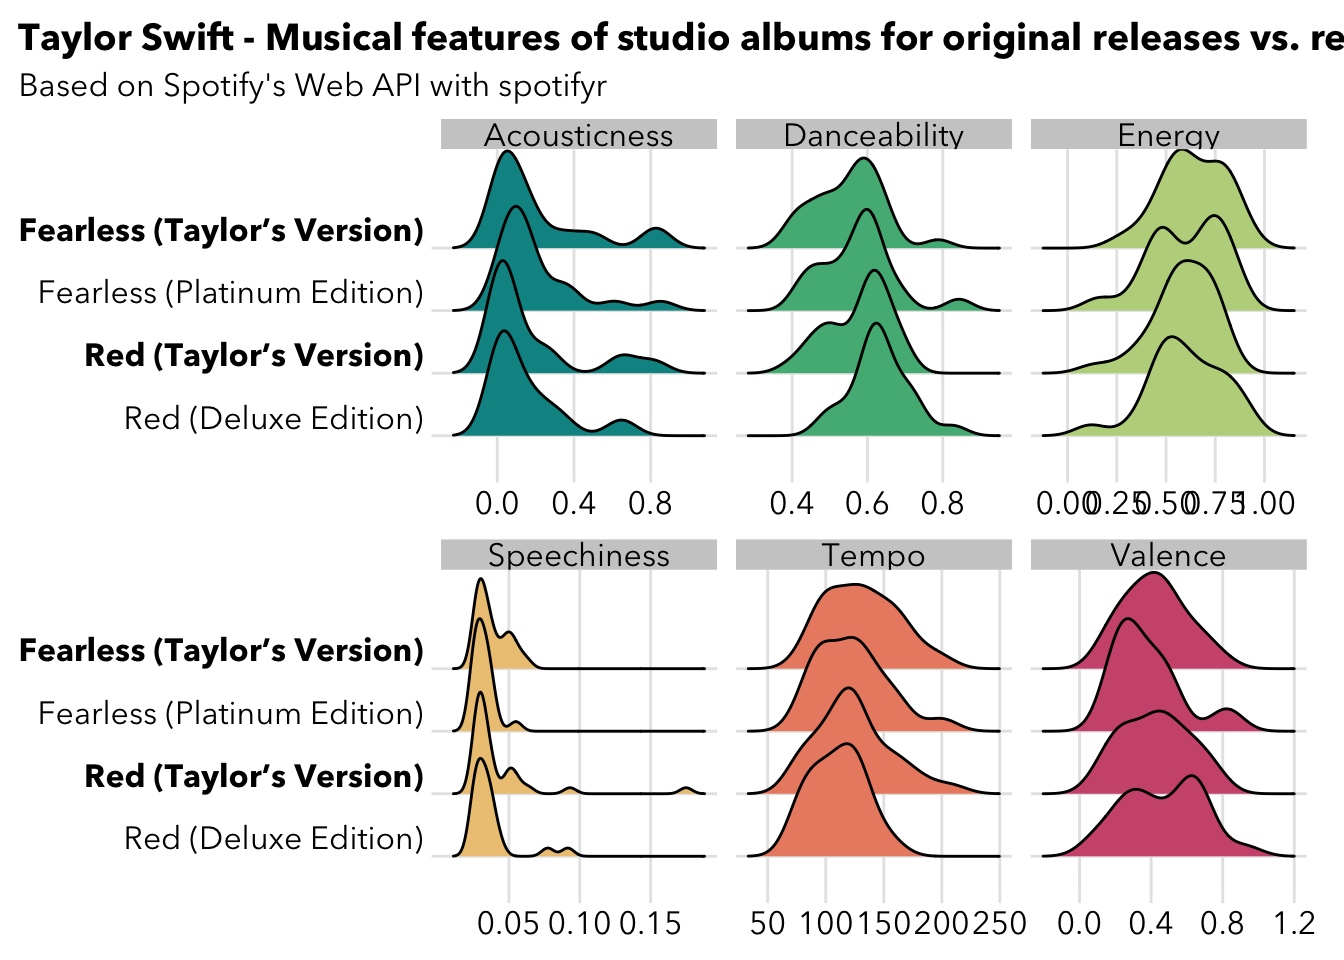
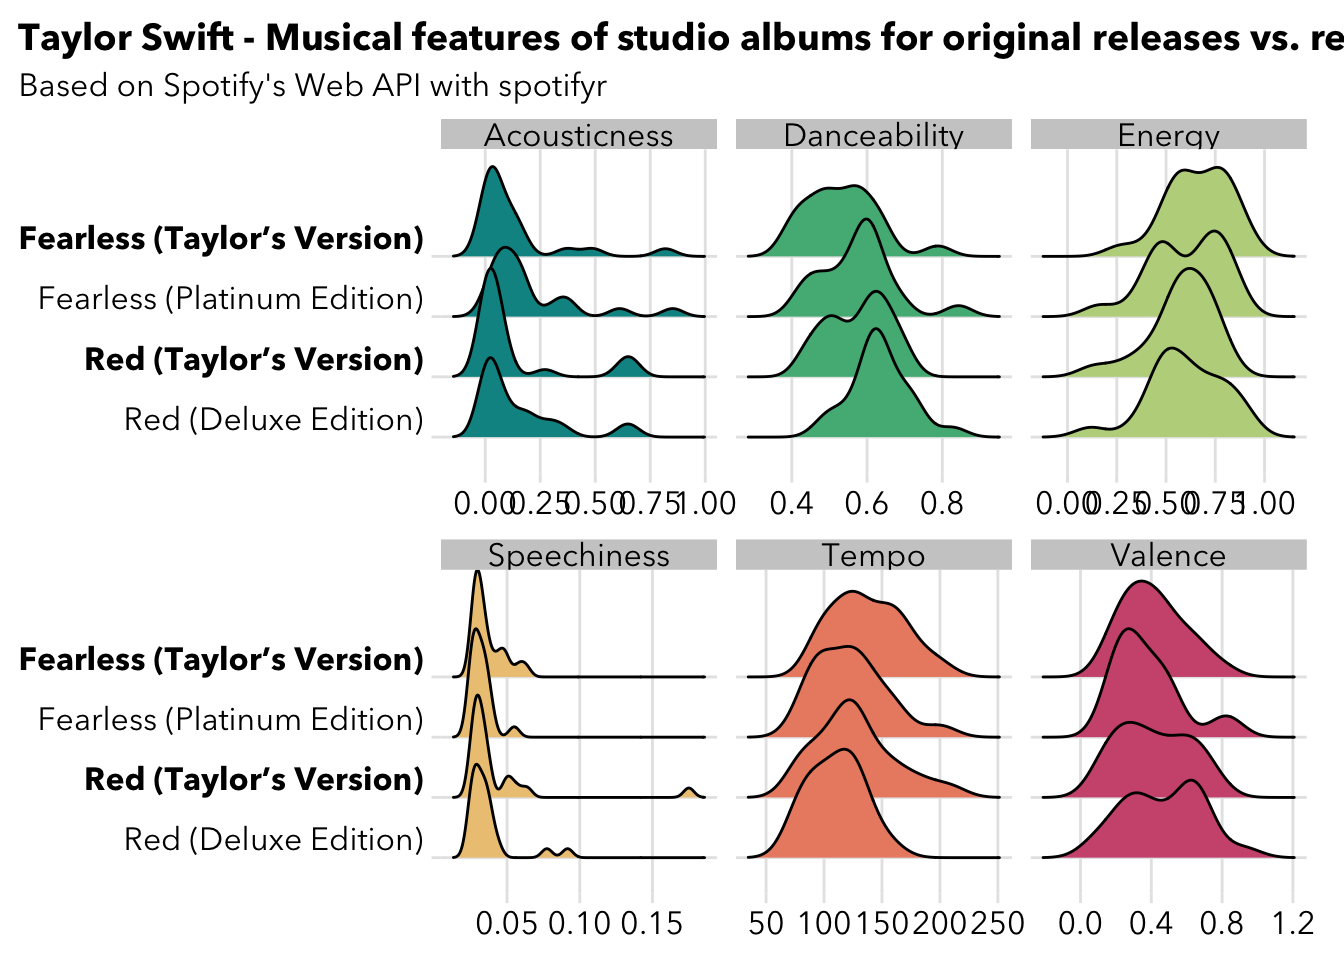
additional analysis

diff --git a/_site/posts/spotify api/index.html b/_site/posts/spotify api/index.html
@@ -251,35 +251,41 @@ code span.wa { color: #60a0b0; font-weight: bold; font-style: italic; } /* Warni
 <span id="cb1-36"><a href="#cb1-36" aria-hidden="true" tabindex="-1"></a><span class="co"># Filter for Taylor's Version + Originals</span></span>
 <span id="cb1-37"><a href="#cb1-37" aria-hidden="true" tabindex="-1"></a>taylors_version <span class="ot">&lt;-</span> tswift_spotify <span class="sc">%&gt;%</span></span>
 <span id="cb1-38"><a href="#cb1-38" aria-hidden="true" tabindex="-1"></a>  <span class="fu">filter</span>(<span class="fu">grepl</span>(<span class="st">"Taylor's Version"</span>, album_name) <span class="sc">|</span> <span class="fu">grepl</span>(<span class="st">"Red"</span>, album_name) <span class="sc">|</span> <span class="fu">grepl</span>(<span class="st">"Fearless"</span>, album_name)) <span class="sc">%&gt;%</span></span>
-<span id="cb1-39"><a href="#cb1-39" aria-hidden="true" tabindex="-1"></a>  <span class="fu">filter</span>(<span class="sc">!</span><span class="fu">grepl</span>(<span class="st">"International"</span>, album_name)) </span>
-<span id="cb1-40"><a href="#cb1-40" aria-hidden="true" tabindex="-1"></a></span>
+<span id="cb1-39"><a href="#cb1-39" aria-hidden="true" tabindex="-1"></a>  <span class="fu">filter</span>(<span class="sc">!</span><span class="fu">grepl</span>(<span class="st">"International"</span>, album_name)) <span class="sc">%&gt;%</span></span>
+<span id="cb1-40"><a href="#cb1-40" aria-hidden="true" tabindex="-1"></a>  <span class="fu">filter</span>(<span class="sc">!</span><span class="fu">grepl</span>(<span class="st">"From The Vault"</span>, track_name))</span>
 <span id="cb1-41"><a href="#cb1-41" aria-hidden="true" tabindex="-1"></a></span>
-<span id="cb1-42"><a href="#cb1-42" aria-hidden="true" tabindex="-1"></a><span class="co"># Added some factoring and text decoration</span></span>
-<span id="cb1-43"><a href="#cb1-43" aria-hidden="true" tabindex="-1"></a>taylors_version <span class="sc">|&gt;</span></span>
-<span id="cb1-44"><a href="#cb1-44" aria-hidden="true" tabindex="-1"></a>  <span class="fu">mutate</span>(<span class="at">album_name =</span> <span class="fu">ifelse</span>(<span class="fu">grepl</span>(<span class="st">"Taylor's Version"</span>, album_name), <span class="fu">paste0</span>(<span class="st">"&lt;b&gt;"</span>, album_name, <span class="st">"&lt;/b&gt;"</span>), album_name),</span>
-<span id="cb1-45"><a href="#cb1-45" aria-hidden="true" tabindex="-1"></a>         <span class="at">album_name =</span> <span class="fu">factor</span>(album_name, <span class="fu">c</span>(<span class="st">"Red (Deluxe Edition)"</span>, <span class="st">"&lt;b&gt;Red (Taylor's Version)&lt;/b&gt;"</span>, <span class="st">"Fearless (Platinum Edition)"</span>, <span class="st">"&lt;b&gt;Fearless (Taylor's Version)&lt;/b&gt;"</span>))</span>
-<span id="cb1-46"><a href="#cb1-46" aria-hidden="true" tabindex="-1"></a>  ) <span class="sc">%&gt;%</span></span>
-<span id="cb1-47"><a href="#cb1-47" aria-hidden="true" tabindex="-1"></a>  tidyr<span class="sc">::</span><span class="fu">pivot_longer</span>(<span class="at">cols =</span> <span class="fu">c</span>(<span class="st">"valence"</span>,<span class="st">"tempo"</span>,<span class="st">"danceability"</span>,<span class="st">"energy"</span>, <span class="st">"speechiness"</span>, <span class="st">"acousticness"</span>), <span class="at">names_to =</span> <span class="st">"metric"</span>) <span class="sc">|&gt;</span></span>
-<span id="cb1-48"><a href="#cb1-48" aria-hidden="true" tabindex="-1"></a>  <span class="fu">ggplot</span>(<span class="fu">aes</span>(<span class="at">x =</span> value, <span class="at">y =</span> album_name, <span class="at">fill=</span><span class="fu">factor</span>(metric))) <span class="sc">+</span></span>
-<span id="cb1-49"><a href="#cb1-49" aria-hidden="true" tabindex="-1"></a>    <span class="fu">geom_density_ridges</span>(<span class="at">show.legend =</span> <span class="cn">FALSE</span>) <span class="sc">+</span></span>
-<span id="cb1-50"><a href="#cb1-50" aria-hidden="true" tabindex="-1"></a>    <span class="fu">theme_ridges</span>() <span class="sc">+</span></span>
-<span id="cb1-51"><a href="#cb1-51" aria-hidden="true" tabindex="-1"></a>    <span class="fu">labs</span>(<span class="at">title =</span> <span class="st">"Taylor Swift - Musical features of studio albums for original releases vs. re-recordings"</span>,</span>
-<span id="cb1-52"><a href="#cb1-52" aria-hidden="true" tabindex="-1"></a>         <span class="at">subtitle =</span> <span class="st">"Based on Spotify's Web API with spotifyr"</span>,</span>
-<span id="cb1-53"><a href="#cb1-53" aria-hidden="true" tabindex="-1"></a>         <span class="at">y=</span><span class="cn">NULL</span>,</span>
-<span id="cb1-54"><a href="#cb1-54" aria-hidden="true" tabindex="-1"></a>         <span class="at">x=</span><span class="cn">NULL</span>)<span class="sc">+</span></span>
-<span id="cb1-55"><a href="#cb1-55" aria-hidden="true" tabindex="-1"></a>    <span class="fu">facet_wrap</span>(<span class="sc">~</span>metric, <span class="at">scales =</span> <span class="st">"free_x"</span>, <span class="at">nrow =</span> <span class="dv">2</span>,</span>
-<span id="cb1-56"><a href="#cb1-56" aria-hidden="true" tabindex="-1"></a>               <span class="at">labeller =</span> <span class="fu">as_labeller</span>(</span>
-<span id="cb1-57"><a href="#cb1-57" aria-hidden="true" tabindex="-1"></a>                 <span class="fu">c</span>(<span class="st">`</span><span class="at">danceability</span><span class="st">`</span><span class="ot">=</span><span class="st">"Danceability"</span>, </span>
-<span id="cb1-58"><a href="#cb1-58" aria-hidden="true" tabindex="-1"></a>                   <span class="st">`</span><span class="at">energy</span><span class="st">`</span> <span class="ot">=</span> <span class="st">"Energy"</span>,</span>
-<span id="cb1-59"><a href="#cb1-59" aria-hidden="true" tabindex="-1"></a>                   <span class="st">`</span><span class="at">acousticness</span><span class="st">`</span> <span class="ot">=</span> <span class="st">"Acousticness"</span>, </span>
-<span id="cb1-60"><a href="#cb1-60" aria-hidden="true" tabindex="-1"></a>                   <span class="st">`</span><span class="at">speechiness</span><span class="st">`</span> <span class="ot">=</span> <span class="st">"Speechiness"</span>,</span>
-<span id="cb1-61"><a href="#cb1-61" aria-hidden="true" tabindex="-1"></a>                   <span class="st">`</span><span class="at">tempo</span><span class="st">`</span> <span class="ot">=</span> <span class="st">"Tempo"</span>, </span>
-<span id="cb1-62"><a href="#cb1-62" aria-hidden="true" tabindex="-1"></a>                   <span class="st">`</span><span class="at">valence</span><span class="st">`</span> <span class="ot">=</span> <span class="st">"Valence"</span>)</span>
-<span id="cb1-63"><a href="#cb1-63" aria-hidden="true" tabindex="-1"></a>               ))<span class="sc">+</span></span>
-<span id="cb1-64"><a href="#cb1-64" aria-hidden="true" tabindex="-1"></a>    rcartocolor<span class="sc">::</span><span class="fu">scale_fill_carto_d</span>(<span class="at">palette=</span><span class="st">"Temps"</span>) <span class="sc">+</span></span>
-<span id="cb1-65"><a href="#cb1-65" aria-hidden="true" tabindex="-1"></a>  <span class="fu">theme</span>(<span class="at">plot.title.position =</span>  <span class="st">"plot"</span>,</span>
-<span id="cb1-66"><a href="#cb1-66" aria-hidden="true" tabindex="-1"></a>        <span class="at">text =</span> <span class="fu">element_text</span>(<span class="at">family=</span><span class="st">"Avenir Next"</span>),</span>
-<span id="cb1-67"><a href="#cb1-67" aria-hidden="true" tabindex="-1"></a>        <span class="at">axis.text.y=</span>ggtext<span class="sc">::</span><span class="fu">element_markdown</span>())</span></code><button title="Copy to Clipboard" class="code-copy-button"><i class="bi"></i></button></pre></div>
+<span id="cb1-42"><a href="#cb1-42" aria-hidden="true" tabindex="-1"></a><span class="co"># Exploring speechiness outlier</span></span>
+<span id="cb1-43"><a href="#cb1-43" aria-hidden="true" tabindex="-1"></a>tv_dat <span class="ot">&lt;-</span> taylors_version <span class="sc">%&gt;%</span></span>
+<span id="cb1-44"><a href="#cb1-44" aria-hidden="true" tabindex="-1"></a>  <span class="fu">filter</span>(<span class="fu">grepl</span>(<span class="st">"Red"</span>, album_name)) <span class="sc">%&gt;%</span></span>
+<span id="cb1-45"><a href="#cb1-45" aria-hidden="true" tabindex="-1"></a>  <span class="fu">select</span>(track_name, speechiness) <span class="sc">%&gt;%</span></span>
+<span id="cb1-46"><a href="#cb1-46" aria-hidden="true" tabindex="-1"></a>  <span class="fu">arrange</span>(<span class="sc">-</span>speechiness)</span>
+<span id="cb1-47"><a href="#cb1-47" aria-hidden="true" tabindex="-1"></a></span>
+<span id="cb1-48"><a href="#cb1-48" aria-hidden="true" tabindex="-1"></a><span class="co"># Added some factoring and text decoration</span></span>
+<span id="cb1-49"><a href="#cb1-49" aria-hidden="true" tabindex="-1"></a>taylors_version <span class="sc">|&gt;</span></span>
+<span id="cb1-50"><a href="#cb1-50" aria-hidden="true" tabindex="-1"></a>  <span class="fu">mutate</span>(<span class="at">album_name =</span> <span class="fu">ifelse</span>(<span class="fu">grepl</span>(<span class="st">"Taylor's Version"</span>, album_name), <span class="fu">paste0</span>(<span class="st">"&lt;b&gt;"</span>, album_name, <span class="st">"&lt;/b&gt;"</span>), album_name),</span>
+<span id="cb1-51"><a href="#cb1-51" aria-hidden="true" tabindex="-1"></a>         <span class="at">album_name =</span> <span class="fu">factor</span>(album_name, <span class="fu">c</span>(<span class="st">"Red (Deluxe Edition)"</span>, <span class="st">"&lt;b&gt;Red (Taylor's Version)&lt;/b&gt;"</span>, <span class="st">"Fearless (Platinum Edition)"</span>, <span class="st">"&lt;b&gt;Fearless (Taylor's Version)&lt;/b&gt;"</span>))</span>
+<span id="cb1-52"><a href="#cb1-52" aria-hidden="true" tabindex="-1"></a>  ) <span class="sc">%&gt;%</span></span>
+<span id="cb1-53"><a href="#cb1-53" aria-hidden="true" tabindex="-1"></a>  tidyr<span class="sc">::</span><span class="fu">pivot_longer</span>(<span class="at">cols =</span> <span class="fu">c</span>(<span class="st">"valence"</span>,<span class="st">"tempo"</span>,<span class="st">"danceability"</span>,<span class="st">"energy"</span>, <span class="st">"speechiness"</span>, <span class="st">"acousticness"</span>), <span class="at">names_to =</span> <span class="st">"metric"</span>) <span class="sc">|&gt;</span></span>
+<span id="cb1-54"><a href="#cb1-54" aria-hidden="true" tabindex="-1"></a>  <span class="fu">ggplot</span>(<span class="fu">aes</span>(<span class="at">x =</span> value, <span class="at">y =</span> album_name, <span class="at">fill=</span><span class="fu">factor</span>(metric))) <span class="sc">+</span></span>
+<span id="cb1-55"><a href="#cb1-55" aria-hidden="true" tabindex="-1"></a>    <span class="fu">geom_density_ridges</span>(<span class="at">show.legend =</span> <span class="cn">FALSE</span>) <span class="sc">+</span></span>
+<span id="cb1-56"><a href="#cb1-56" aria-hidden="true" tabindex="-1"></a>    <span class="fu">theme_ridges</span>() <span class="sc">+</span></span>
+<span id="cb1-57"><a href="#cb1-57" aria-hidden="true" tabindex="-1"></a>    <span class="fu">labs</span>(<span class="at">title =</span> <span class="st">"Taylor Swift - Musical features of studio albums for original releases vs. re-recordings"</span>,</span>
+<span id="cb1-58"><a href="#cb1-58" aria-hidden="true" tabindex="-1"></a>         <span class="at">subtitle =</span> <span class="st">"Based on Spotify's Web API with spotifyr"</span>,</span>
+<span id="cb1-59"><a href="#cb1-59" aria-hidden="true" tabindex="-1"></a>         <span class="at">y=</span><span class="cn">NULL</span>,</span>
+<span id="cb1-60"><a href="#cb1-60" aria-hidden="true" tabindex="-1"></a>         <span class="at">x=</span><span class="cn">NULL</span>)<span class="sc">+</span></span>
+<span id="cb1-61"><a href="#cb1-61" aria-hidden="true" tabindex="-1"></a>    <span class="fu">facet_wrap</span>(<span class="sc">~</span>metric, <span class="at">scales =</span> <span class="st">"free_x"</span>, <span class="at">nrow =</span> <span class="dv">2</span>,</span>
+<span id="cb1-62"><a href="#cb1-62" aria-hidden="true" tabindex="-1"></a>               <span class="at">labeller =</span> <span class="fu">as_labeller</span>(</span>
+<span id="cb1-63"><a href="#cb1-63" aria-hidden="true" tabindex="-1"></a>                 <span class="fu">c</span>(<span class="st">`</span><span class="at">danceability</span><span class="st">`</span><span class="ot">=</span><span class="st">"Danceability"</span>, </span>
+<span id="cb1-64"><a href="#cb1-64" aria-hidden="true" tabindex="-1"></a>                   <span class="st">`</span><span class="at">energy</span><span class="st">`</span> <span class="ot">=</span> <span class="st">"Energy"</span>,</span>
+<span id="cb1-65"><a href="#cb1-65" aria-hidden="true" tabindex="-1"></a>                   <span class="st">`</span><span class="at">acousticness</span><span class="st">`</span> <span class="ot">=</span> <span class="st">"Acousticness"</span>, </span>
+<span id="cb1-66"><a href="#cb1-66" aria-hidden="true" tabindex="-1"></a>                   <span class="st">`</span><span class="at">speechiness</span><span class="st">`</span> <span class="ot">=</span> <span class="st">"Speechiness"</span>,</span>
+<span id="cb1-67"><a href="#cb1-67" aria-hidden="true" tabindex="-1"></a>                   <span class="st">`</span><span class="at">tempo</span><span class="st">`</span> <span class="ot">=</span> <span class="st">"Tempo"</span>, </span>
+<span id="cb1-68"><a href="#cb1-68" aria-hidden="true" tabindex="-1"></a>                   <span class="st">`</span><span class="at">valence</span><span class="st">`</span> <span class="ot">=</span> <span class="st">"Valence"</span>)</span>
+<span id="cb1-69"><a href="#cb1-69" aria-hidden="true" tabindex="-1"></a>               ))<span class="sc">+</span></span>
+<span id="cb1-70"><a href="#cb1-70" aria-hidden="true" tabindex="-1"></a>    rcartocolor<span class="sc">::</span><span class="fu">scale_fill_carto_d</span>(<span class="at">palette=</span><span class="st">"Temps"</span>) <span class="sc">+</span></span>
+<span id="cb1-71"><a href="#cb1-71" aria-hidden="true" tabindex="-1"></a>  <span class="fu">theme</span>(<span class="at">plot.title.position =</span>  <span class="st">"plot"</span>,</span>
+<span id="cb1-72"><a href="#cb1-72" aria-hidden="true" tabindex="-1"></a>        <span class="at">text =</span> <span class="fu">element_text</span>(<span class="at">family=</span><span class="st">"Avenir Next"</span>),</span>
+<span id="cb1-73"><a href="#cb1-73" aria-hidden="true" tabindex="-1"></a>        <span class="at">axis.text.y=</span>ggtext<span class="sc">::</span><span class="fu">element_markdown</span>())</span></code><button title="Copy to Clipboard" class="code-copy-button"><i class="bi"></i></button></pre></div>
 <div class="cell-output-display">
 <p><img src="index_files/figure-html/unnamed-chunk-1-1.png" class="img-fluid" width="672"></p>
 </div>
